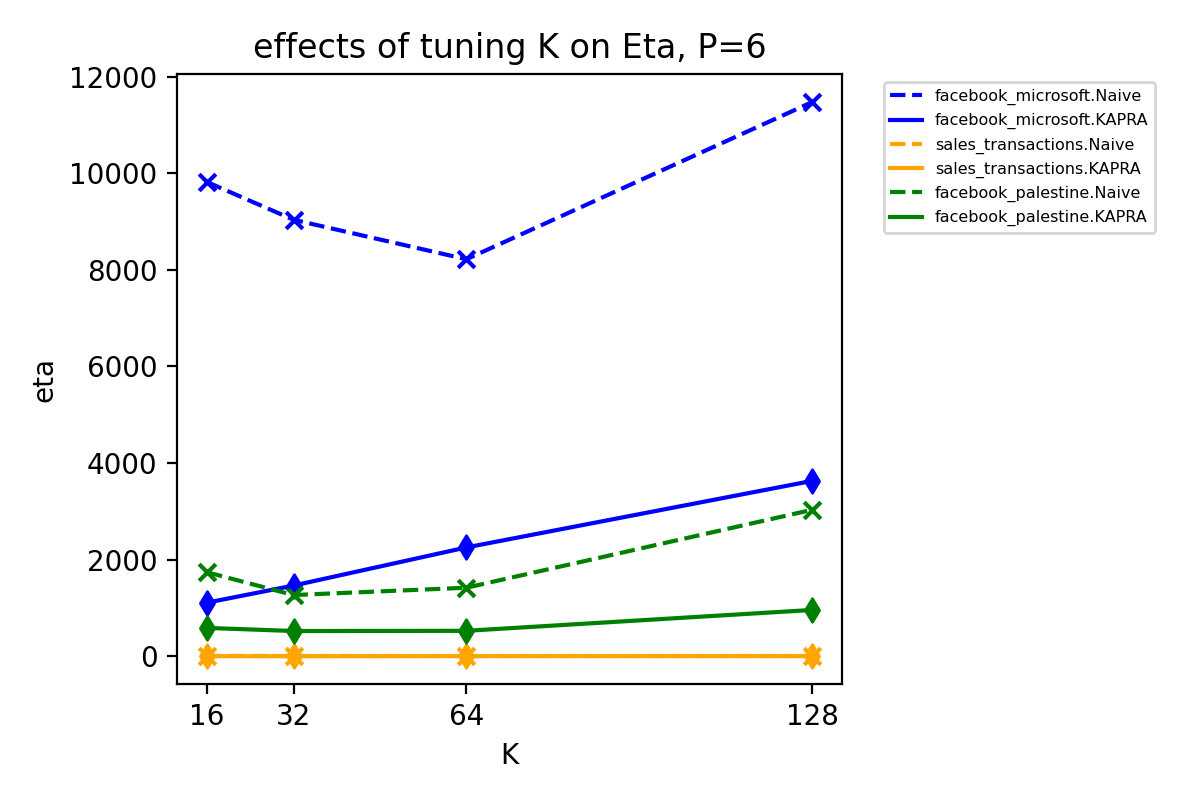
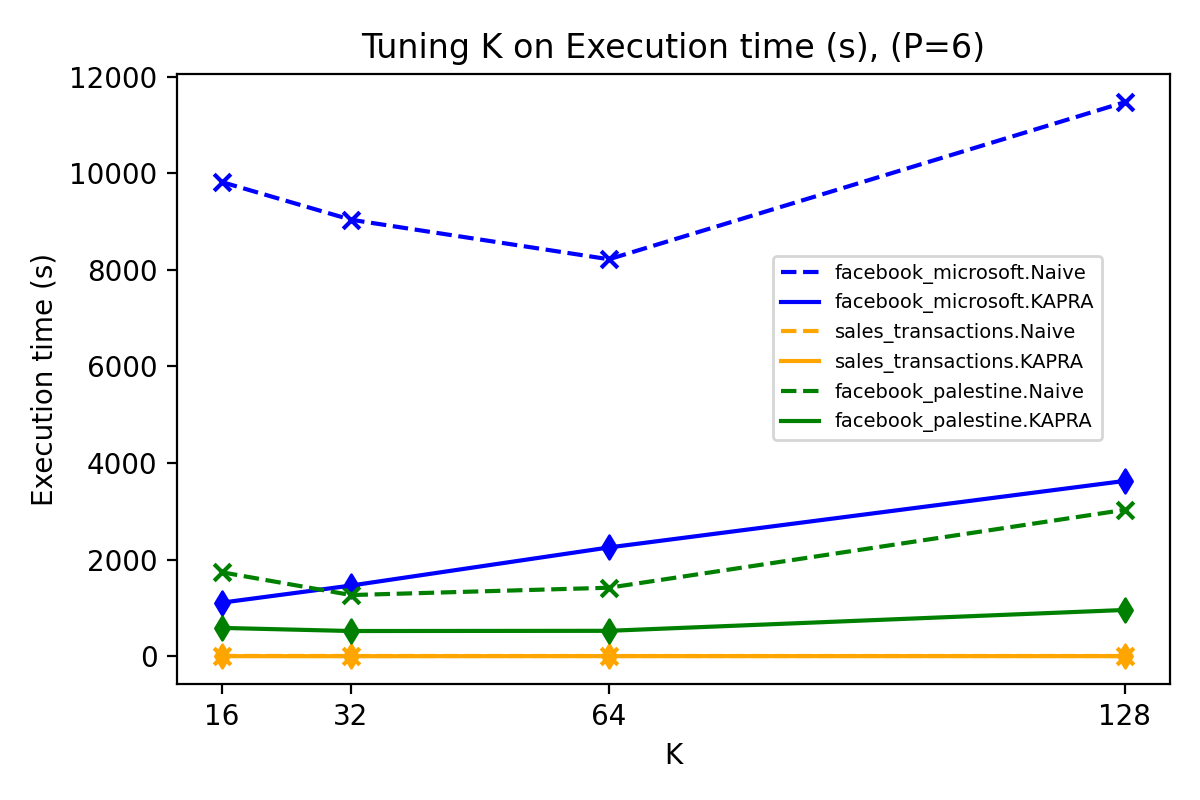
fig final

diff --git a/utils/draw_stat_plots.py b/utils/draw_stat_plots.py
@@ -51,7 +51,7 @@ def autolabel(rects, ax):
                     ha='center', va='bottom')
 
 if __name__=="__main__":
-    statfile_path = 'C:/Users/gvlos/Documents/GitHub/kapra/results/P6_tot_value_loss.txt'
+    statfile_path = 'C:/Users/gvlos/Documents/GitHub/kapra/results/K16_tot_pattern_loss.txt'
 
     with open(Path(statfile_path), 'r') as f:
         # a. Parse the statfile header
@@ -106,16 +106,25 @@ if __name__=="__main__":
         colors.pop(-1)
 
     # 1. Generate appropriate labels
-    ylabel = metric
+    if metric == 'tot_value_loss':
+        ylabel = 'Total Value loss'
+    elif metric == 'avg_value_loss':
+        ylabel = 'Average value loss'
+    elif metric == 'tot_pattern_loss':
+        ylabel = 'Total Pattern loss'
+    elif metric == 'avg_pattern_loss':
+        ylabel = 'Average Pattern loss'
+    elif metric == 'eta':
+        ylabel = 'Execution time (s)'
         
-    title = f"effects of tuning {parameter} on {metric.capitalize().replace('_', ' ')}, {other_param_name}={other_param_fixed if other_param_fixed else 0}"
+    title = f"Tuning {parameter} on {ylabel}, ({other_param_name}={other_param_fixed})"
     # 2. Add text for labels, title and custom ticks
     ax.set_ylabel(ylabel)
     ax.set_xlabel(parameter)
     ax.set_title(title)
     ax.set_xticks(parameters)  # ????
     ax.set_xticklabels(parameters)
-    ax.legend(bbox_to_anchor=(1.05, 1), loc='best', fontsize='xx-small')
+    ax.legend(loc='best', fontsize=7)
 
     fig.tight_layout()
 
